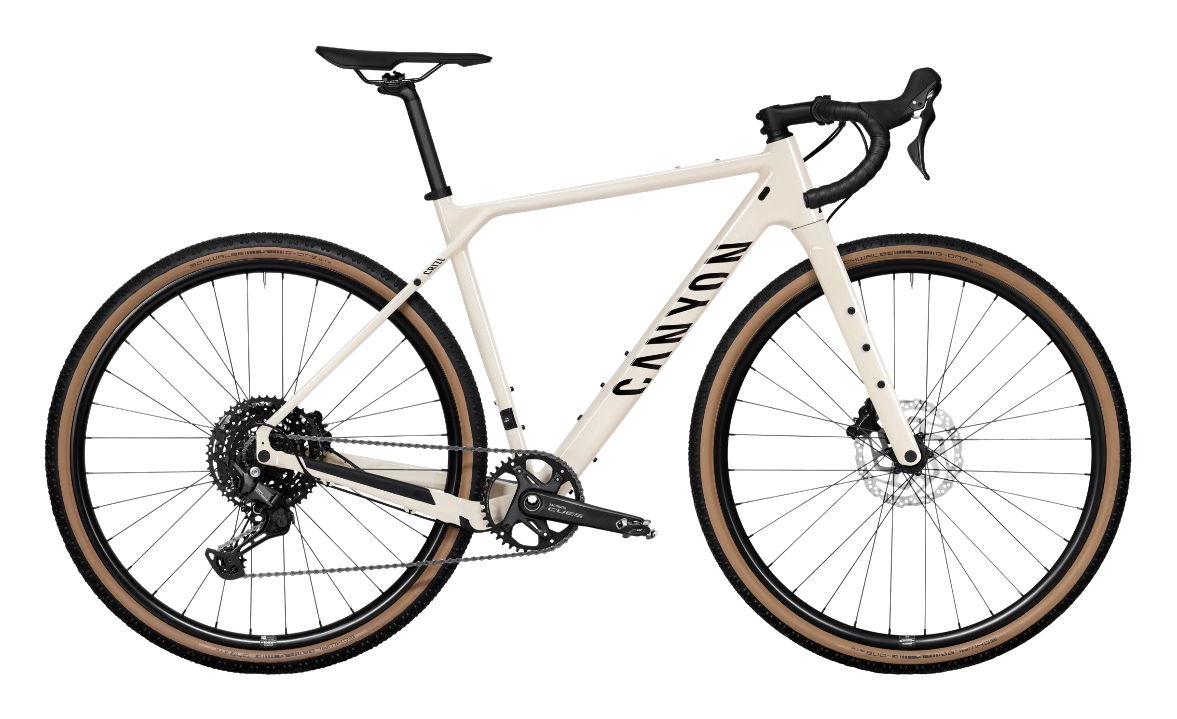
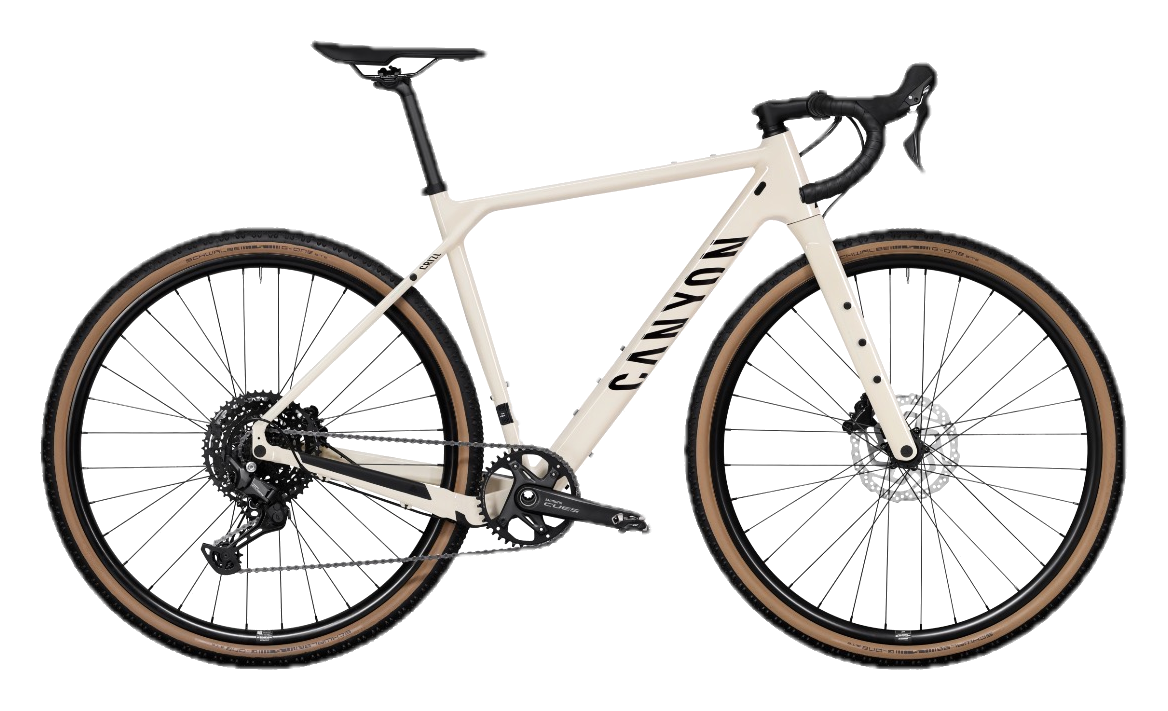
Rad sauber freigestellt: Vision-Motivmaske plus Weiß-Erkennung, Säume herausgerechnet

diff --git a/scripts/remove_background.swift b/scripts/remove_background.swift
@@ -1,0 +1,27 @@
+// Stellt das Hauptmotiv eines Fotos mit Apples Vision-Framework frei (wie „Motiv kopieren“ in Fotos).
+// Aufruf: swift scripts/remove_background.swift <quelle> <ziel.png>
+import Foundation
+import Vision
+import CoreImage
+import CoreImage.CIFilterBuiltins
+
+let args = CommandLine.arguments
+guard args.count == 3 else { fputs("Aufruf: remove_background.swift <quelle> <ziel.png>\n", stderr); exit(1) }
+guard let input = CIImage(contentsOf: URL(fileURLWithPath: args[1])) else { fputs("Bild nicht lesbar\n", stderr); exit(1) }
+
+let request = VNGenerateForegroundInstanceMaskRequest()
+let handler = VNImageRequestHandler(ciImage: input, options: [:])
+try handler.perform([request])
+guard let result = request.results?.first else { fputs("Kein Motiv erkannt\n", stderr); exit(2) }
+let maskBuffer = try result.generateScaledMaskForImage(forInstances: result.allInstances, from: handler)
+let mask = CIImage(cvPixelBuffer: maskBuffer)
+
+let filter = CIFilter.blendWithMask()
+filter.inputImage = input
+filter.backgroundImage = CIImage.empty()
+filter.maskImage = mask
+guard let output = filter.outputImage?.cropped(to: input.extent) else { exit(3) }
+
+let context = CIContext()
+try context.writePNGRepresentation(of: output, to: URL(fileURLWithPath: args[2]), format: .RGBA8, colorSpace: CGColorSpace(name: CGColorSpace.sRGB)!, options: [:])
+print("ok")

diff --git a/scripts/prepare_product_image.py b/scripts/prepare_product_image.py
@@ -1,24 +1,54 @@
 #!/usr/bin/env python3
-"""Macht aus einem Produktfoto mit weißem Hintergrund ein freigestelltes PNG.
+"""Stellt ein Produktfoto mit weißem Hintergrund sauber frei.
 
 Aufruf: python3 scripts/prepare_product_image.py <quelle> <ziel.png>
-Weiße und fast weiße Pixel werden transparent, halbtransparente Kanten bleiben weich,
-danach wird auf den Inhalt beschnitten und ein kleiner Rand ergänzt.
+
+Zwei Masken werden kombiniert:
+  1. Motivmaske aus Apples Vision-Framework (scripts/remove_background.swift) für saubere Außenkanten
+  2. Weiß-Erkennung über den Abstand zu Reinweiß für Zwischenräume (z. B. zwischen Speichen)
+Anschließend wird der weiße Anteil aus halbtransparenten Kantenpixeln herausgerechnet,
+damit auf dunklem Grund kein heller Saum bleibt. Zum Schluss Beschnitt mit kleinem Rand.
 """
-import sys
-from PIL import Image, ImageFilter
+import os, subprocess, sys, tempfile
+import numpy as np
+from PIL import Image
 
 src, dst = sys.argv[1], sys.argv[2]
-im = Image.open(src).convert("RGBA")
-r, g, b, a = im.split()
-# Helligkeit → Alpha: sehr helle Pixel werden transparent, mit weichem Übergang
-lum = Image.merge("RGB", (r, g, b)).convert("L")
-alpha = lum.point(lambda v: 0 if v >= 250 else (255 if v <= 225 else int(255 * (250 - v) / 25)))
-alpha = alpha.filter(ImageFilter.GaussianBlur(0.6))
-im.putalpha(alpha)
-bbox = im.getbbox()
+here = os.path.dirname(os.path.abspath(__file__))
+
+im = np.asarray(Image.open(src).convert("RGB")).astype(np.float32)
+h, w, _ = im.shape
+
+# 1) Vision-Maske
+vision = np.ones((h, w), np.float32)
+with tempfile.TemporaryDirectory() as td:
+    out = os.path.join(td, "mask.png")
+    r = subprocess.run(["swift", os.path.join(here, "remove_background.swift"), src, out], capture_output=True, text=True)
+    if r.returncode == 0 and os.path.exists(out):
+        a = Image.open(out).convert("RGBA").split()[3].resize((w, h), Image.LANCZOS)
+        vision = np.asarray(a).astype(np.float32) / 255.0
+    else:
+        print("Hinweis: Vision-Maske nicht verfügbar, nur Weiß-Erkennung.", r.stderr.strip()[:200])
+
+# 2) Weiß-Erkennung: Abstand zu Weiß = wie weit der dunkelste Kanal von 255 entfernt ist
+dist = 255.0 - im.min(axis=2)
+lo, hi = 10.0, 34.0                       # bis lo: Hintergrund, ab hi: Motiv, dazwischen weich
+key = np.clip((dist - lo) / (hi - lo), 0, 1)
+key = key * key * (3 - 2 * key)           # Smoothstep für ruhige Kanten
+
+alpha = np.minimum(vision, key)
+
+# 3) Weiß aus Kantenpixeln herausrechnen: C = a*F + (1-a)*255  =>  F = (C - (1-a)*255) / a
+a = alpha[..., None]
+fg = np.where(a > 0.02, (im - (1 - a) * 255.0) / np.maximum(a, 0.02), im)
+fg = np.clip(fg, 0, 255)
+
+rgba = np.dstack([fg, alpha * 255.0]).astype(np.uint8)
+res = Image.fromarray(rgba, "RGBA")
+
+bbox = res.getbbox()
 if bbox:
-    pad = int(max(im.size) * 0.03)
-    im = im.crop((max(bbox[0]-pad, 0), max(bbox[1]-pad, 0), min(bbox[2]+pad, im.width), min(bbox[3]+pad, im.height)))
-im.save(dst, "PNG", optimize=True)
-print(f"{dst}: {im.width}x{im.height}")
+    pad = int(max(w, h) * 0.03)
+    res = res.crop((max(bbox[0] - pad, 0), max(bbox[1] - pad, 0), min(bbox[2] + pad, w), min(bbox[3] + pad, h)))
+res.save(dst, "PNG", optimize=True)
+print(f"{dst}: {res.width}x{res.height}")
